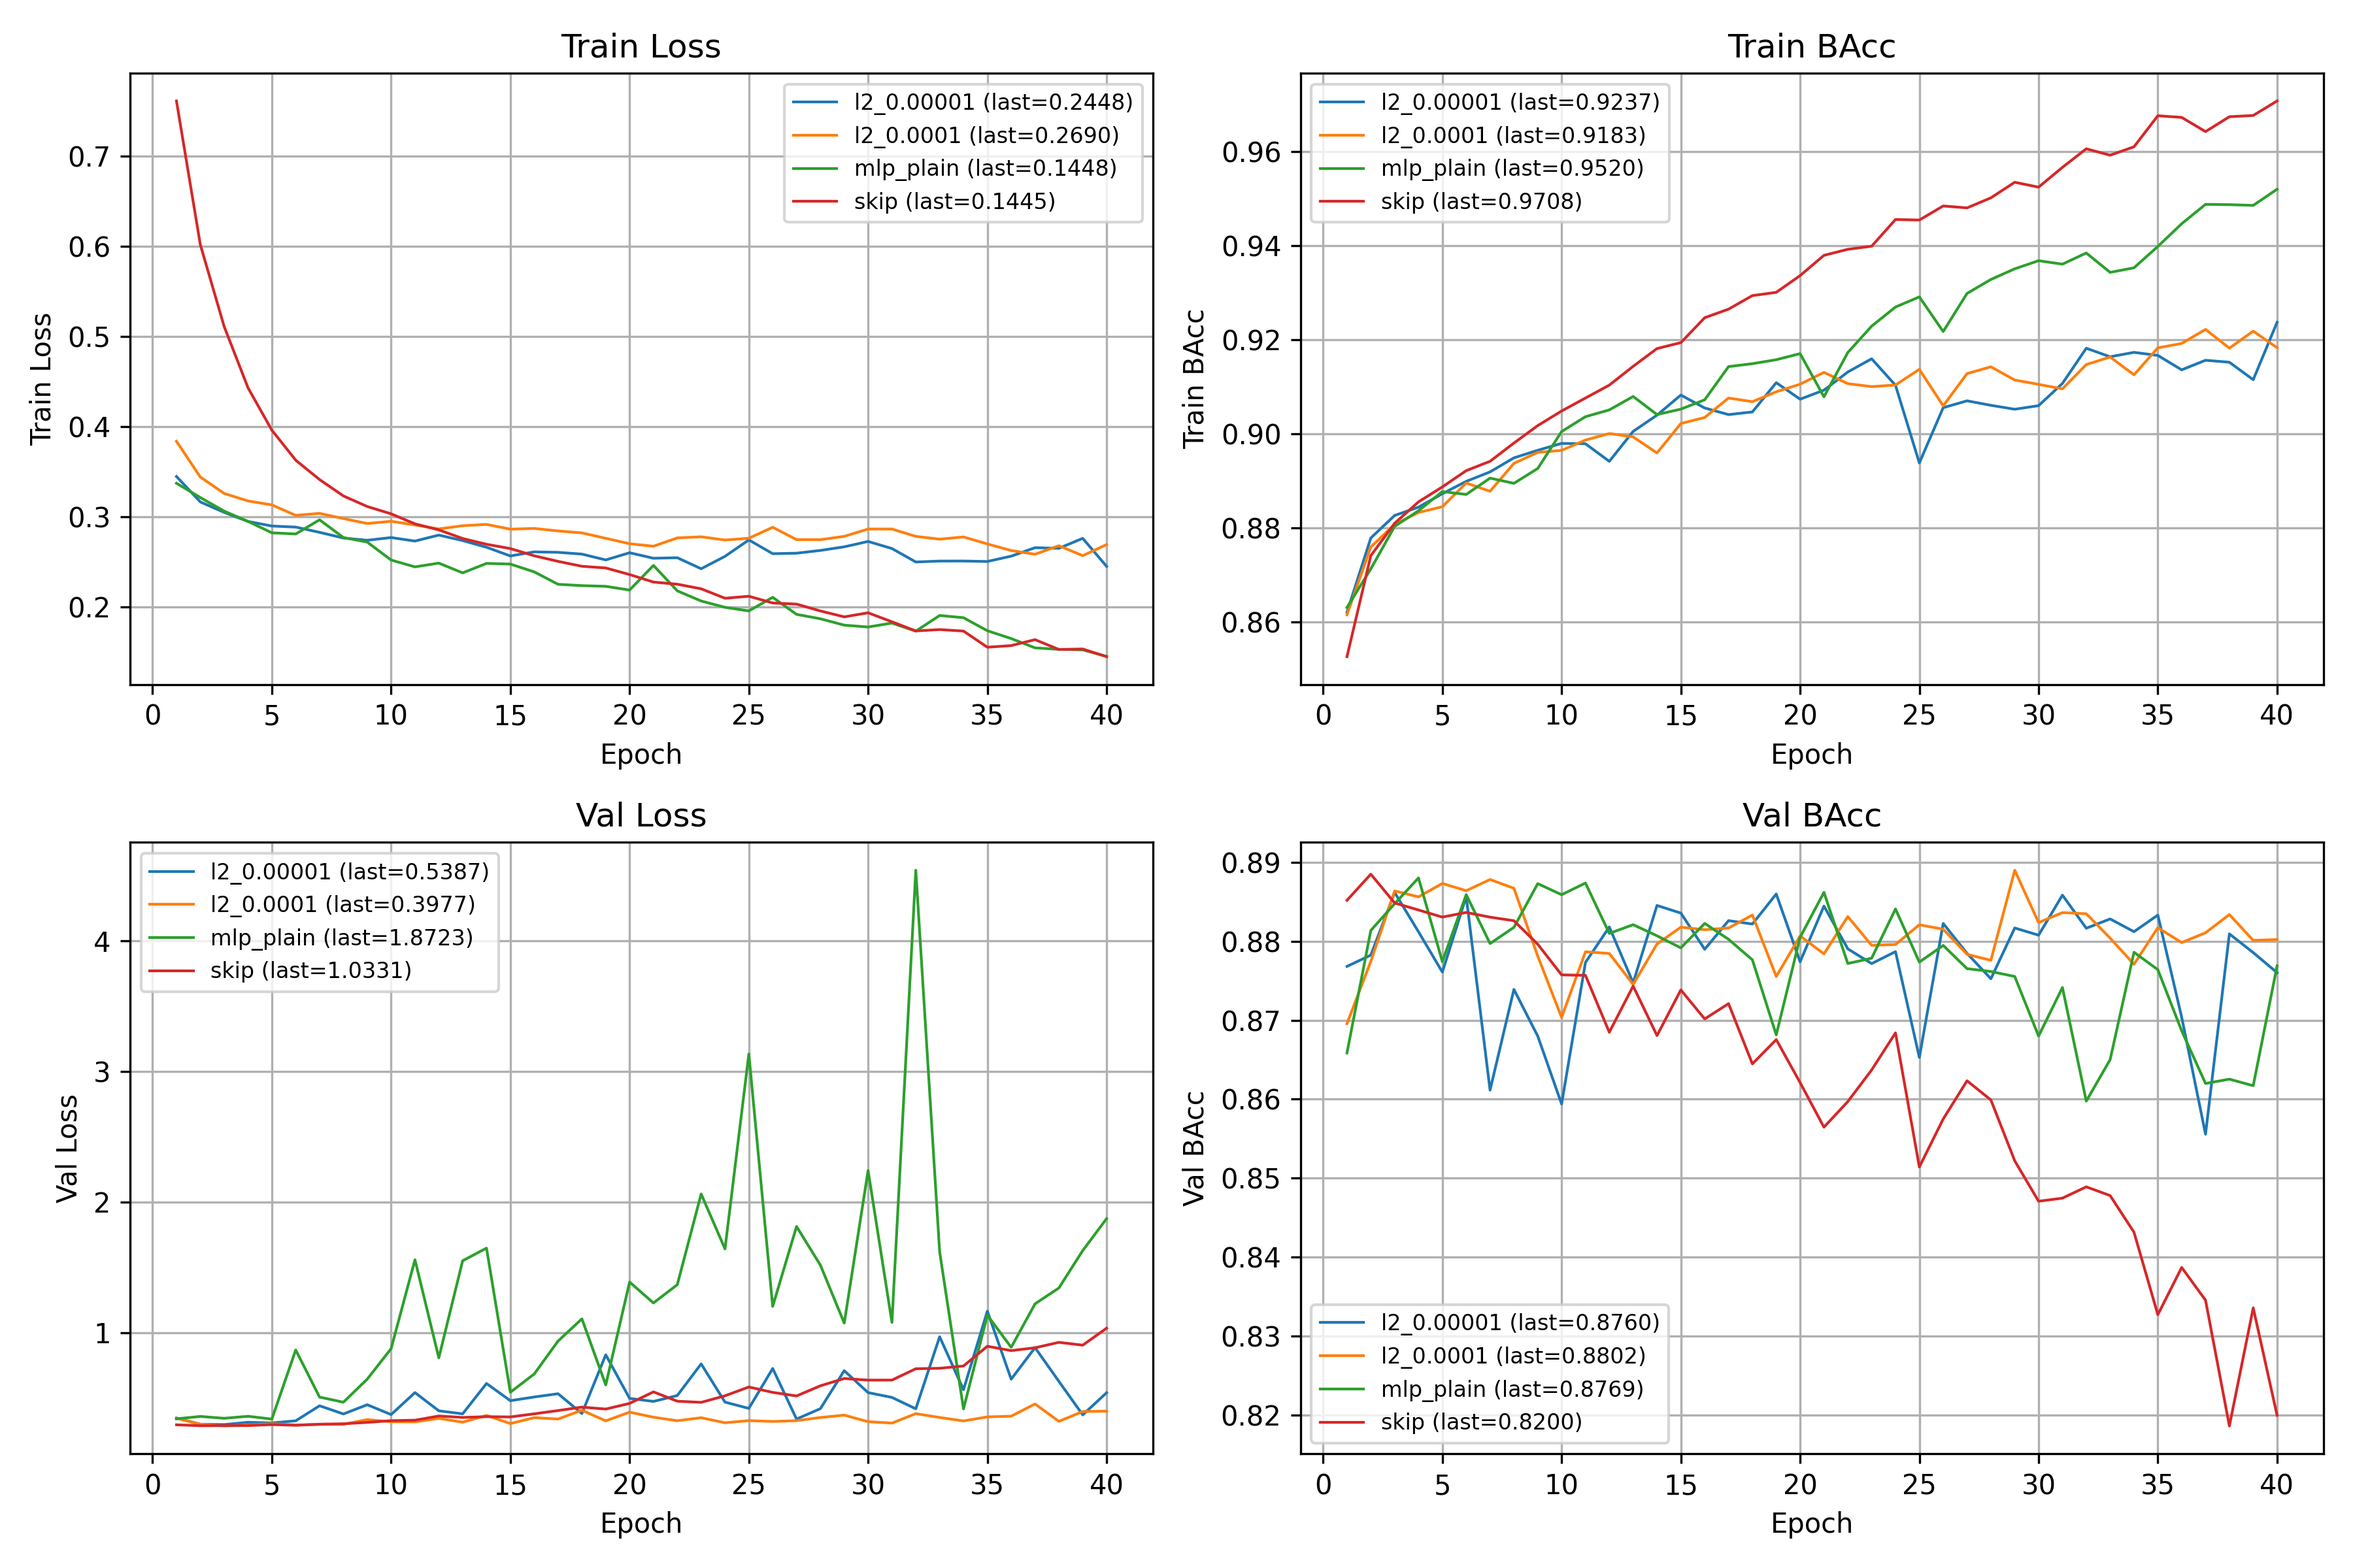
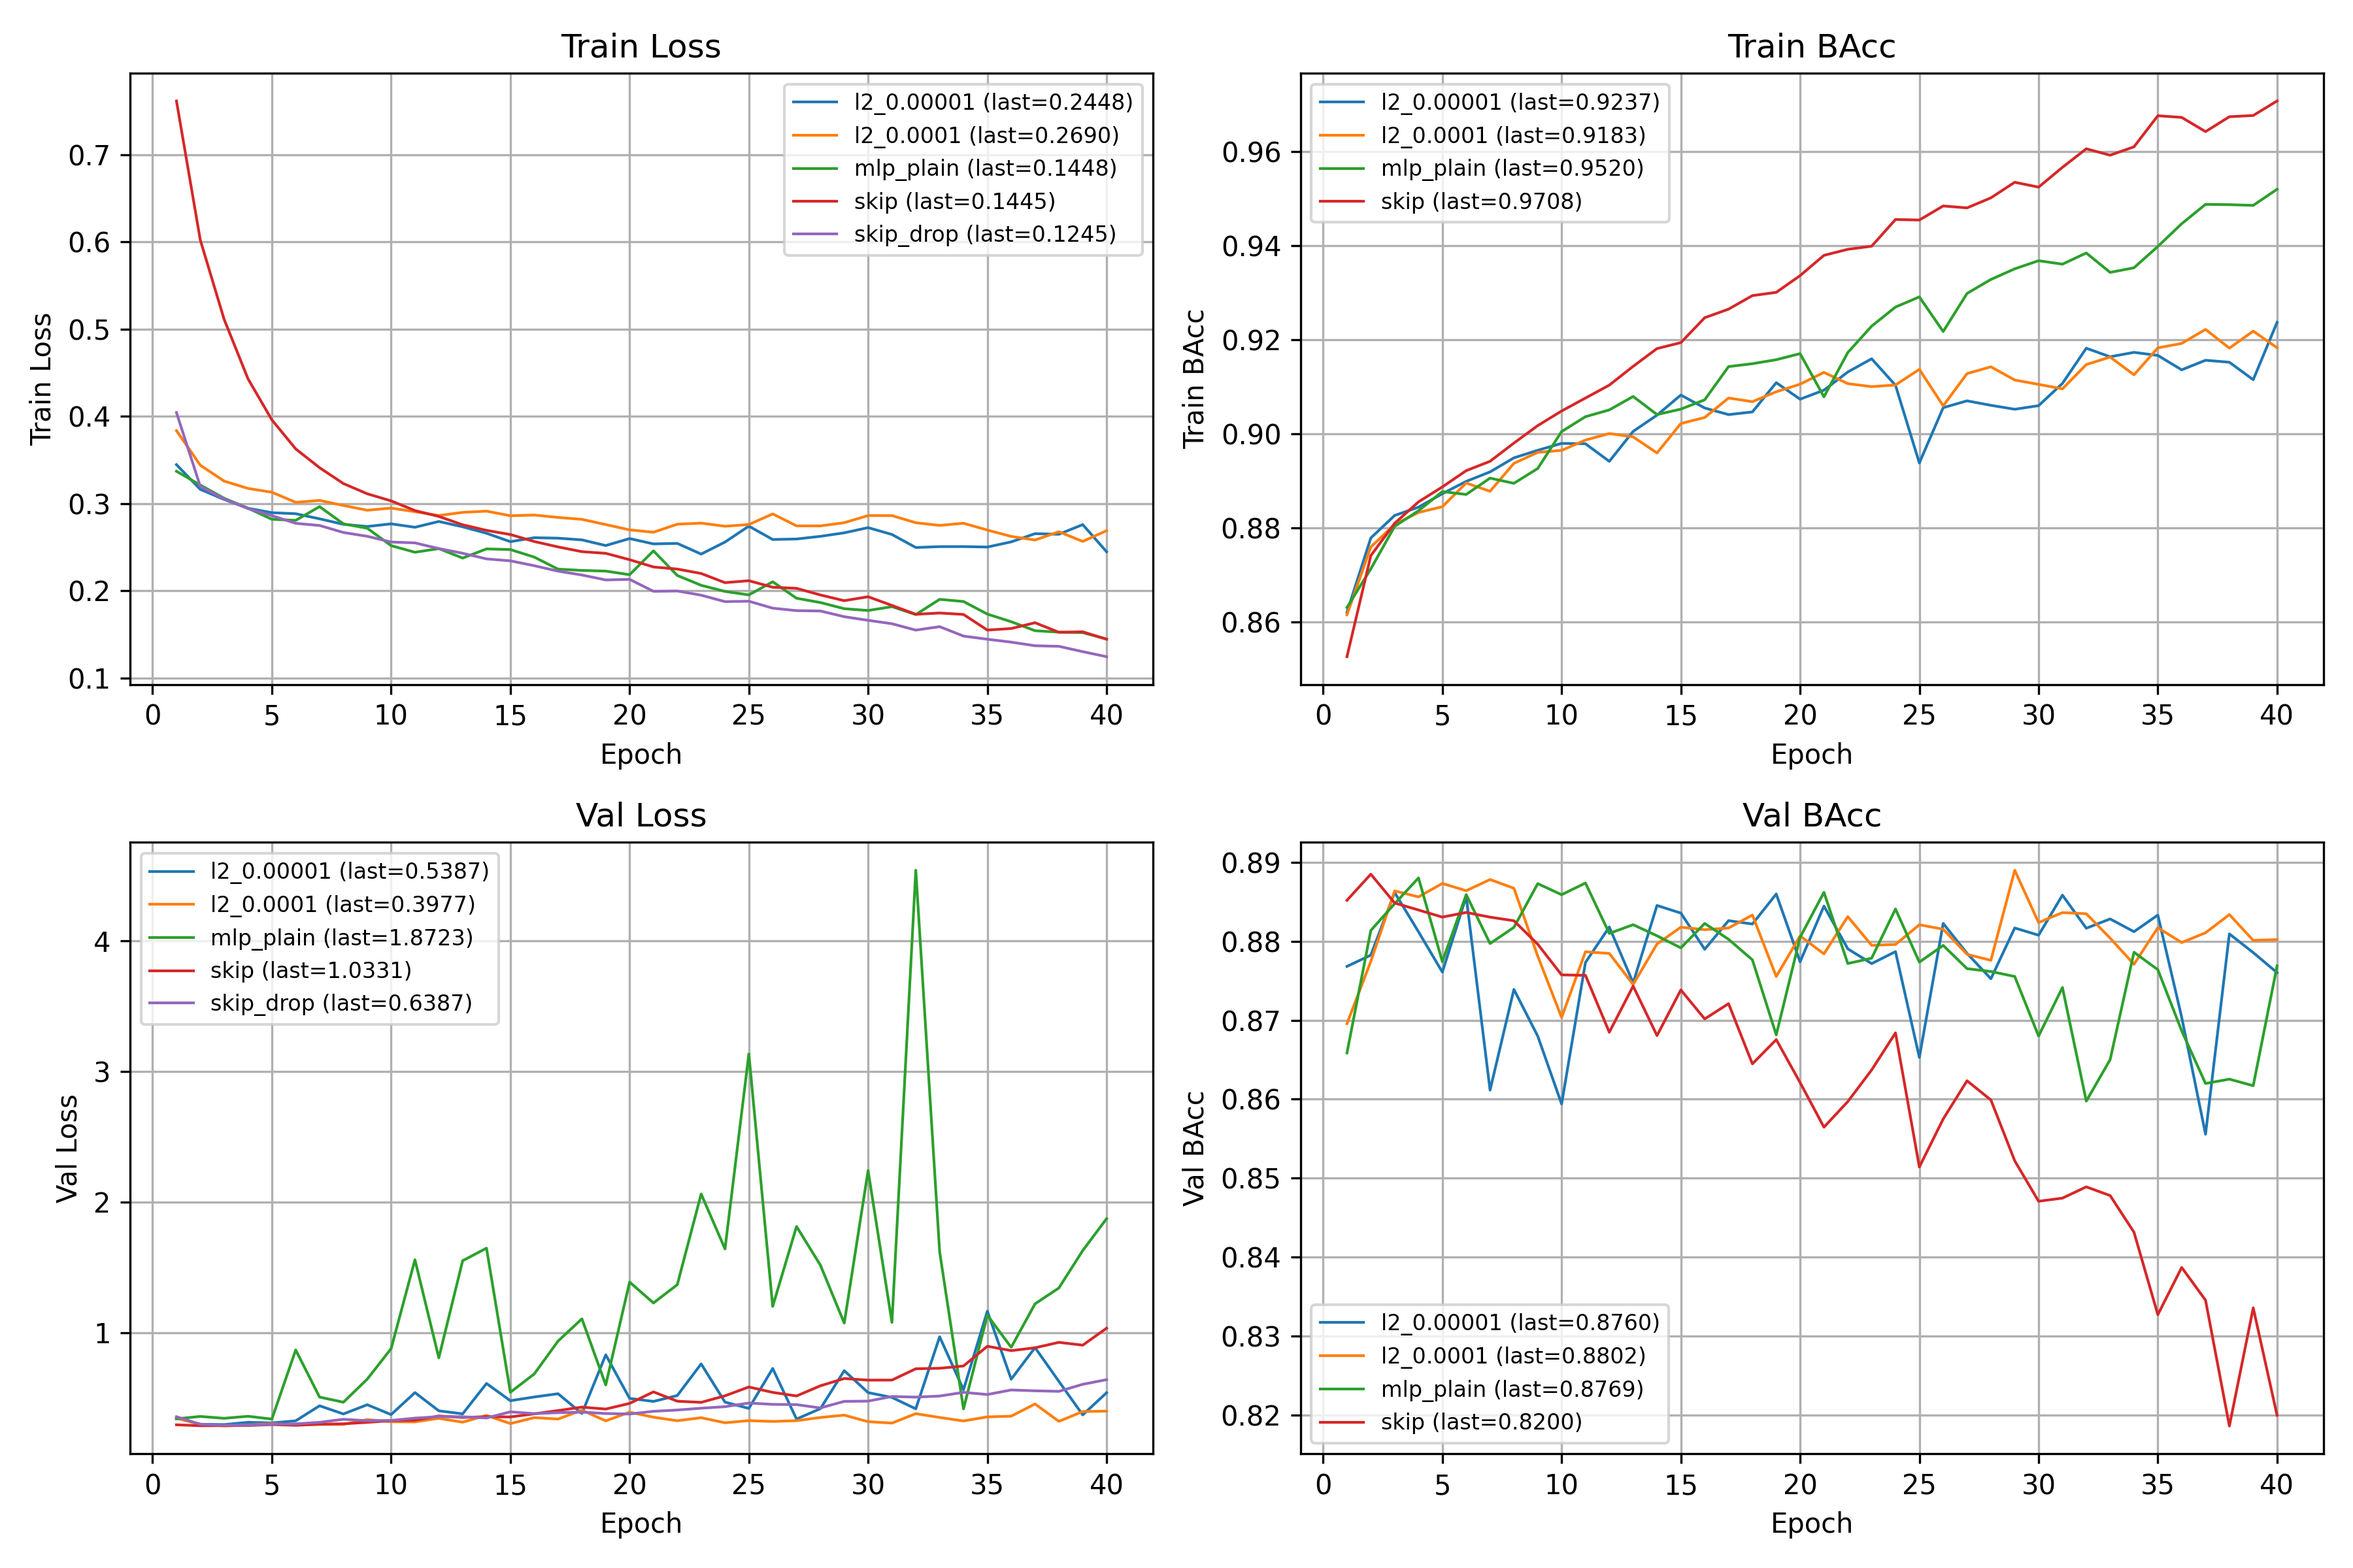
fix

diff --git a/src/trainer/trainer.py b/src/trainer/trainer.py
@@ -92,8 +92,9 @@ class Trainer(object):
         self.model.train()
         total_loss, correct, total = 0.0, 0, 0
         num_classes, conf = None, None  # 矩阵 行=真实标签，列=预测
+
         for x, y in dataloader:
-            # start_time = time.time()
+            # batch_time = time.time()
             # 应用数据增强
             if self.augment_fn is not None:
                 col = dataloader.dataset.feature_indices.get("numerical")
@@ -129,11 +130,13 @@ class Trainer(object):
             idx = y_cpu * num_classes + p_cpu
             conf.view(-1).index_add_(0, idx, torch.ones_like(idx, dtype=torch.long))
 
+        self.start_epoch += 1
         # Balanced Accuracy = 平均每类召回率 = mean(diag(conf) / row_sum)
+
         row_sum = conf.sum(dim=1).clamp_min(1)
         bal_acc = (conf.diag().float() / row_sum.float()).mean().item()
-        self.start_epoch += 1
         return total_loss / len(dataloader), correct / total, bal_acc
+
 
     def _init_swa(self):
         self.swa_model = AveragedModel(self.model)
@@ -162,7 +165,7 @@ class Trainer(object):
             if self.reg_config.get("use_swa", False) and not self.swa_is_active and epoch >= self.swa_start_epoch:
                 self._init_swa()
 
-            train_loss, train_acc, train_bacc = self.train_epoch(train_loader)
+            train_loss, train_acc, train_bacc= self.train_epoch(train_loader)
             self.train_loss_history.append(train_loss)
             self.train_acc_history.append(train_acc)
             self.train_bacc_history.append(train_bacc)
@@ -172,7 +175,7 @@ class Trainer(object):
                 self.swa_scheduler.step()
 
             # 验证集测试
-            # val_loss, val_acc, val_bacc = self.evaluate(val_loader)
+            val_loss, val_acc, val_bacc = self.evaluate(val_loader)
             # self.val_loss_history.append(val_loss)
             # self.val_acc_history.append(val_acc)
             # self.val_bacc_history.append(val_bacc)
@@ -184,10 +187,11 @@ class Trainer(object):
             # 打印当前学习率
             cur_lr = self.optimizer.param_groups[0]['lr']
             if verbose:
+                print(
+                    f"[Epoch {epoch}] Train Loss: {train_loss:.6f}, Train Acc: {train_acc:.6f}, Train BAcc: {train_bacc} | "
+                    f"Val Loss: {val_loss:.4f}, Val Acc: {val_acc:.6f}, Val BAcc: {val_bacc:.6f} | LR: {cur_lr:.6f} | Time: {time.time() - start_time:.2f}")
                 # print(f"[Epoch {epoch}] Train Loss: {train_loss:.6f}, Train Acc: {train_acc:.6f}, Train BAcc: {train_bacc} | "
-                #       f"Val Loss: {val_loss:.4f}, Val Acc: {val_acc:.6f}, Val BAcc: {val_bacc:.6f} | LR: {cur_lr:.6f} | Time: {time.time() - start_time:.2f}")
-                print(f"[Epoch {epoch}] Train Loss: {train_loss:.6f}, Train Acc: {train_acc:.6f}, Train BAcc: {train_bacc} | "
-                      f" | LR: {cur_lr:.6f} | Time: {time.time() - start_time:.2f}")
+                #       f" | LR: {cur_lr:.6f} | Time: {time.time() - start_time:.2f}")
 
         # 更新 BN stats
         if self.swa_is_active:
@@ -223,6 +227,8 @@ class Trainer(object):
                 y_cpu, p_cpu = y.detach().cpu(), pred.detach().cpu()
                 idx = y_cpu * num_classes + p_cpu
                 conf.view(-1).index_add_(0, idx, torch.ones_like(idx, dtype=torch.long))
+
+
         # Balanced Accuracy = 平均每类召回率 = mean(diag(conf) / row_sum)
         row_sum = conf.sum(dim=1).clamp_min(1)
         bal_acc = (conf.diag().float() / row_sum.float()).mean().item()

diff --git a/src/exp/exp1/exp1_mlp.py b/src/exp/exp1/exp1_mlp.py
@@ -16,12 +16,12 @@ if __name__ == '__main__':
         "l1_lambda": 0.00,
         "use_l2": False,
         "l2_lambda": 0.00,
-        "use_dropout": False,
-        "drop_rate": 0.0,
-        "use_bn": False,
+        "use_dropout": True,
+        "drop_rate": 0.2,
+        "use_bn": True,
         "use_ln": False,
-        "use_skip": False,
-        "skip_type": "None",
+        "use_skip": True,
+        "skip_type": "normal",
         "skip_step": 1,
         "skip_drop_prob": 0.0,
         "use_data_augment": False,
@@ -40,7 +40,7 @@ if __name__ == '__main__':
 
     set_seed(11)
     # 数据准备
-    dataset="diabetic"
+    dataset="bank"
     meta = get_metadata(dataset=dataset)
     in_features = meta["in_features"]
     out_features = meta["out_features"]
@@ -52,7 +52,9 @@ if __name__ == '__main__':
     if not is_balanced:
         weights = compute_class_weights(class_ratio, method="inv")
 
+    time1 = time.time()
     train_loader, valid_loader, test_loader = get_dataloader(dataset=dataset, data_dir=data_dir, batch_size=batch_size)
+    print(f"加载数据集时间：{time.time() - time1}")
 
     # 初始化模型
     hidden_features = [512, 512, 512, 512, 512, 512]
@@ -81,11 +83,11 @@ if __name__ == '__main__':
     )
 
     result = []
-    for epoch in range(4):
+    for epoch in range(64):
         trainer.train(train_loader, valid_loader, epochs=1, verbose=True)
-        loss, acc, bacc = trainer.evaluate(test_loader)
-        print("epoch: {}, loss: {}, acc: {}, bacc: {}".format(epoch, loss, acc, bacc))
+        # loss, acc, bacc = trainer.evaluate(test_loader)
+        # print("epoch: {}, loss: {}, acc: {}, bacc: {}".format(epoch, loss, acc, bacc))
     loss, acc, bacc = trainer.evaluate(test_loader)
-    print(bacc)
-    print(time.time() - start_time)
+
+    print(f"loss: {loss}, acc: {acc}, bacc: {bacc}, time: {time.time() - start_time}")
 

diff --git a/src/data/meta.py b/src/data/meta.py
@@ -11,17 +11,18 @@ MetaData = {
         "data_dir": "/data/ruipeng/workdir/autoreg/.data/adult",
         "max_epochs": 4,
     },
-    # "bank": {
-    #     "name": "bank",
-    #     "instance": 45211,
-    #     "feats": 21,
-    #     "in_features": 54,
-    #     "out_features": 2,
-    #     "batch_size": 64,
-    #     "is_balanced": False,
-    #     "class_ratio": [23411, 2949],
-    #     "data_dir": "/data/ruipeng/workdir/autoreg/.data/bank"
-    # },
+    "bank": {
+        "name": "bank",
+        "instance": 45211,
+        "feats": 21,
+        "in_features": 54,
+        "out_features": 2,
+        "batch_size": 64,
+        "is_balanced": False,
+        "class_ratio": [23411, 2949],
+        "data_dir": "/data/ruipeng/workdir/autoreg/.data/bank",
+        "max_epochs": 4,
+    },
     "ccfraud": {
         "name": "ccfraud",
         "instance": 284807,
@@ -129,18 +130,18 @@ MetaData = {
         "data_dir": "/data/ruipeng/workdir/autoreg/.data/diabetic",
         "max_epochs": 4,
     },
-    "criteo": {
-        "name": "criteo",
-        "instance": 45840617,
-        "feats": 40,
-        "in_features": 39,
-        "out_features": 2,
-        "batch_size": 4096,
-        "is_balanced": False,
-        "class_ratio": [34095179, 11745438],            # >30 && No 是 0， <30 是 1,
-        "data_dir": "/data/ruipeng/workdir/autoreg/.data/criteo",
-        "max_epochs": 4,
-    },
+    # "criteo": {
+    #     "name": "criteo",
+    #     "instance": 45840617,
+    #     "feats": 40,
+    #     "in_features": 39,
+    #     "out_features": 2,
+    #     "batch_size": 8192,
+    #     "is_balanced": False,
+    #     "class_ratio": [34095179, 11745438],            # >30 && No 是 0， <30 是 1,
+    #     "data_dir": "/data/ruipeng/workdir/autoreg/.data/criteo",
+    #     "max_epochs": 4,
+    # },
 }
 
 

diff --git a/script/plot_logs3.py b/script/plot_logs3.py
@@ -57,5 +57,5 @@ def plot_metrics(directory):
 
 
 if __name__ == "__main__":
-    log_dir = "/data/ruipeng/workdir/autoreg/script/dionis"
+    log_dir = "/data/ruipeng/workdir/autoreg/script/bank"
     plot_metrics(log_dir)
